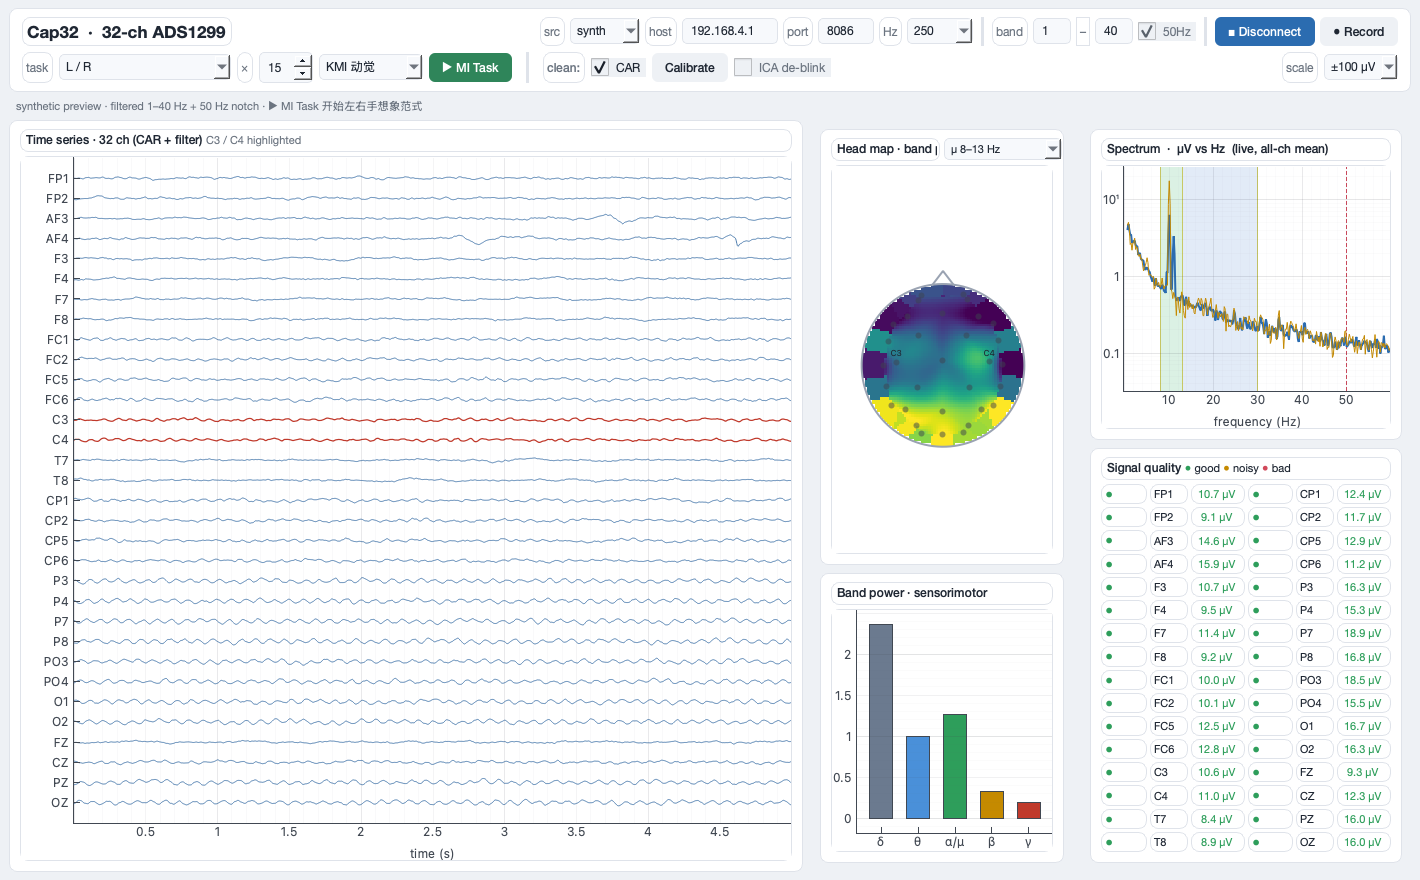
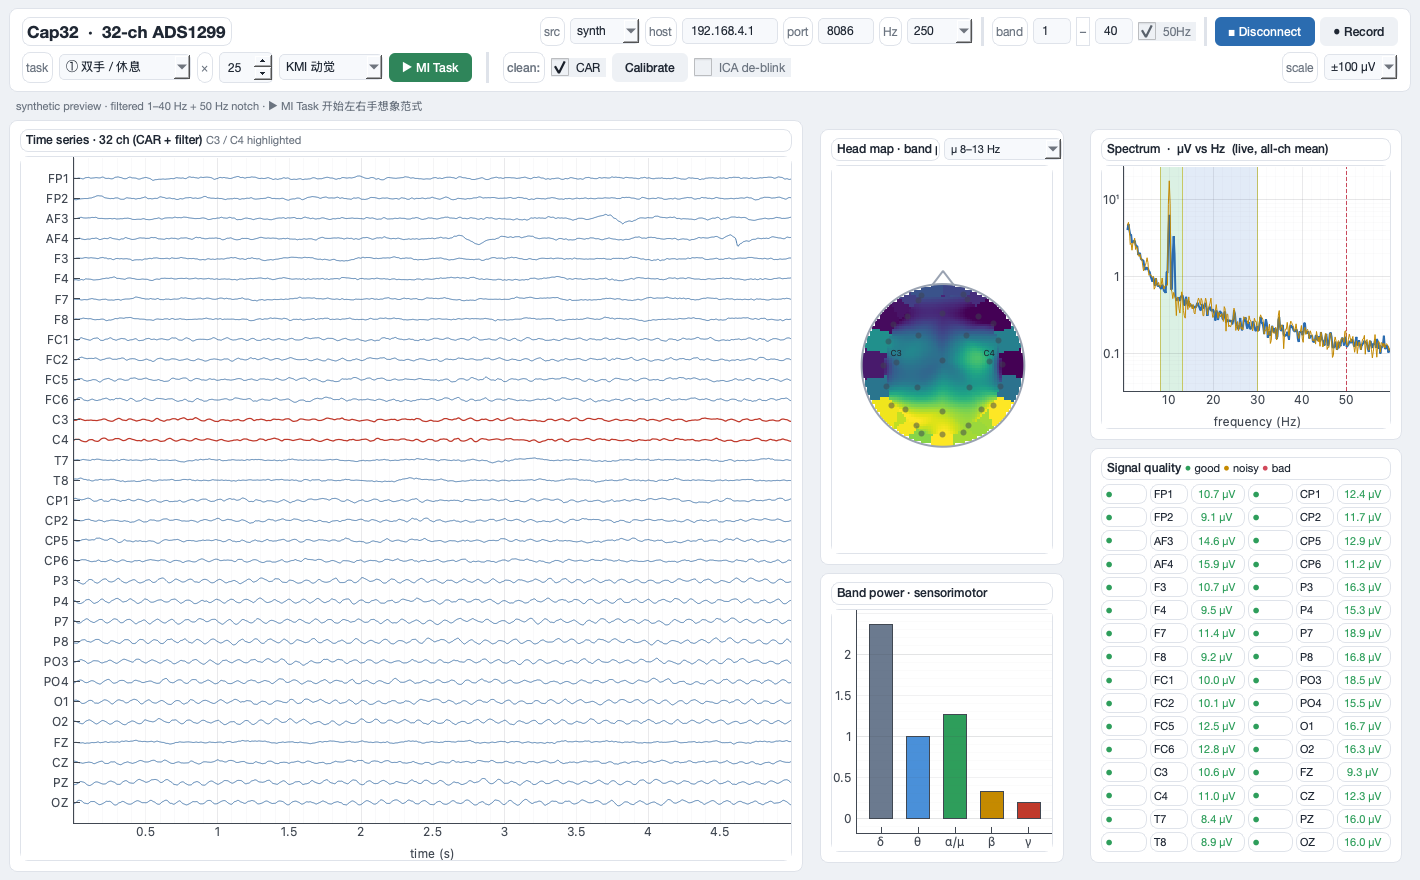
Task-set picker in the GUI; recordings can never overwrite each other
- The task dropdown is now driven by the evidence-ordered TASK_SETS with hover text
  explaining why each contrast was chosen; it defaults to ① 双手/休息, the check for
  whether motor imagery produces any signal at all on this cap.
- Filenames carry the task set (cap32_<ts>_hands-rest.npz) so recordings are
  self-describing, and _unique_base() appends _2, _3, … when any output path already
  exists. The timestamp only has 1 s resolution, so re-running the same set could
  previously collide and silently destroy the earlier recording.
- Default reps per class 15 → 25: the first session's 15/class left confidence intervals
  far too wide to conclude anything.

Changed region(s): [[0.1239, 0.0614, 0.5887, 0.092], [0.031, 0.0614, 0.093, 0.092]]

diff --git a/cap32_acquisition/cap_gui.py b/cap32_acquisition/cap_gui.py
@@ -265,6 +265,20 @@ def _card(QtWidgets):
 
 
 FORMAT_VERSION = 2
+SAVE_EXTS = (".npz", ".json", "_raw.fif")
+
+
+def _unique_base(outdir, stem):
+    """Never overwrite an existing recording. The timestamp has 1 s resolution, so two runs
+    of the SAME task set inside one second (or a re-save) would otherwise collide and
+    silently destroy the earlier data. Append _2, _3, … until every output path is free."""
+    base = os.path.join(outdir, stem)
+    if not any(os.path.exists(base + e) for e in SAVE_EXTS):
+        return base
+    k = 2
+    while any(os.path.exists(f"{base}_{k}{e}") for e in SAVE_EXTS):
+        k += 1
+    return f"{base}_{k}"
 
 
 def save_recording(data, trig, marker, fs, ch_names, outdir="recordings",
@@ -287,7 +301,7 @@ def save_recording(data, trig, marker, fs, ch_names, outdir="recordings",
     Also writes an MNE `.fif` with imagery onsets as task-labelled annotations."""
     os.makedirs(outdir, exist_ok=True)
     stamp = time.strftime("%Y%m%d_%H%M%S")
-    base = os.path.join(outdir, f"cap32_{stamp}" + (f"_{tag}" if tag else ""))
+    base = _unique_base(outdir, f"cap32_{stamp}" + (f"_{tag}" if tag else ""))
 
     fields = dict(data=data.astype(np.float32), trigger=trig.astype(np.int32),
                   marker=marker.astype(np.int32), fs=float(fs),
@@ -386,10 +400,16 @@ def build(fs, source_kind, host, port, note=""):
     btn_rec = chip("● Record", "#eef1f5", TXT)
 
     # MI paradigm controls — task sets incl. cognitive tasks (减7 / 想词 / 放歌 / 走房间)
-    from mi_paradigm import TASK_SETS
-    task_cb = field(QtWidgets.QComboBox(), 172)
+    from mi_paradigm import TASK_SETS, TASK_SET_WHY
+    task_cb = field(QtWidgets.QComboBox(), 132)
     task_cb.addItems(list(TASK_SETS))
-    reps_sp = field(QtWidgets.QSpinBox(), 54); reps_sp.setRange(2, 60); reps_sp.setValue(15)
+    for i, k in enumerate(TASK_SETS):                       # hover explains WHY each set
+        task_cb.setItemData(i, f"{k}\n{TASK_SET_WHY.get(k,'')}\n任务: {TASK_SETS[k]}",
+                            QtCore.Qt.ItemDataRole.ToolTipRole)
+    task_cb.currentTextChanged.connect(
+        lambda k: task_cb.setToolTip(TASK_SET_WHY.get(k, "")))
+    task_cb.setToolTip(TASK_SET_WHY.get(task_cb.currentText(), ""))
+    reps_sp = field(QtWidgets.QSpinBox(), 54); reps_sp.setRange(2, 60); reps_sp.setValue(25)   # 15/class gave CIs too wide to conclude
     btn_task = chip("▶ MI Task", "#2f855a")
 
     def vsep():
@@ -743,7 +763,8 @@ def run_live(fs, source_kind, host, port):
                           loss_pct=round(100 * r.lost / max(1, r.n + r.lost), 3),
                           samples_filled=int(r.filled)))
             base = save_recording(data, trig, marker, ctx["fs"], CAP32_CHANNELS,
-                                  trials=trials, meta=meta, tag="mi", gap=gap)
+                                  trials=trials, meta=meta, gap=gap,
+                                  tag="-".join(tasks))
             ctx["stat"].setText(
                 f"✅ 完成 · {len(trials)} trials · 丢包 {meta['link']['loss_pct']}% · "
                 f"saved {base}.npz  →  python src/analysis/erd_ers.py {base}.npz")

diff --git a/src/acquisition/cap_gui.py b/src/acquisition/cap_gui.py
@@ -264,6 +264,20 @@ def _card(QtWidgets):
 
 
 FORMAT_VERSION = 2
+SAVE_EXTS = (".npz", ".json", "_raw.fif")
+
+
+def _unique_base(outdir, stem):
+    """Never overwrite an existing recording. The timestamp has 1 s resolution, so two runs
+    of the SAME task set inside one second (or a re-save) would otherwise collide and
+    silently destroy the earlier data. Append _2, _3, … until every output path is free."""
+    base = os.path.join(outdir, stem)
+    if not any(os.path.exists(base + e) for e in SAVE_EXTS):
+        return base
+    k = 2
+    while any(os.path.exists(f"{base}_{k}{e}") for e in SAVE_EXTS):
+        k += 1
+    return f"{base}_{k}"
 
 
 def save_recording(data, trig, marker, fs, ch_names, outdir="recordings",
@@ -286,7 +300,7 @@ def save_recording(data, trig, marker, fs, ch_names, outdir="recordings",
     Also writes an MNE `.fif` with imagery onsets as task-labelled annotations."""
     os.makedirs(outdir, exist_ok=True)
     stamp = time.strftime("%Y%m%d_%H%M%S")
-    base = os.path.join(outdir, f"cap32_{stamp}" + (f"_{tag}" if tag else ""))
+    base = _unique_base(outdir, f"cap32_{stamp}" + (f"_{tag}" if tag else ""))
 
     fields = dict(data=data.astype(np.float32), trigger=trig.astype(np.int32),
                   marker=marker.astype(np.int32), fs=float(fs),
@@ -385,10 +399,16 @@ def build(fs, source_kind, host, port, note=""):
     btn_rec = chip("● Record", "#eef1f5", TXT)
 
     # MI paradigm controls — task sets incl. cognitive tasks (减7 / 想词 / 放歌 / 走房间)
-    from mi_paradigm import TASK_SETS
-    task_cb = field(QtWidgets.QComboBox(), 172)
+    from mi_paradigm import TASK_SETS, TASK_SET_WHY
+    task_cb = field(QtWidgets.QComboBox(), 132)
     task_cb.addItems(list(TASK_SETS))
-    reps_sp = field(QtWidgets.QSpinBox(), 54); reps_sp.setRange(2, 60); reps_sp.setValue(15)
+    for i, k in enumerate(TASK_SETS):                       # hover explains WHY each set
+        task_cb.setItemData(i, f"{k}\n{TASK_SET_WHY.get(k,'')}\n任务: {TASK_SETS[k]}",
+                            QtCore.Qt.ItemDataRole.ToolTipRole)
+    task_cb.currentTextChanged.connect(
+        lambda k: task_cb.setToolTip(TASK_SET_WHY.get(k, "")))
+    task_cb.setToolTip(TASK_SET_WHY.get(task_cb.currentText(), ""))
+    reps_sp = field(QtWidgets.QSpinBox(), 54); reps_sp.setRange(2, 60); reps_sp.setValue(25)   # 15/class gave CIs too wide to conclude
     btn_task = chip("▶ MI Task", "#2f855a")
 
     def vsep():
@@ -742,7 +762,8 @@ def run_live(fs, source_kind, host, port):
                           loss_pct=round(100 * r.lost / max(1, r.n + r.lost), 3),
                           samples_filled=int(r.filled)))
             base = save_recording(data, trig, marker, ctx["fs"], CAP32_CHANNELS,
-                                  trials=trials, meta=meta, tag="mi", gap=gap)
+                                  trials=trials, meta=meta, gap=gap,
+                                  tag="-".join(tasks))
             ctx["stat"].setText(
                 f"✅ 完成 · {len(trials)} trials · 丢包 {meta['link']['loss_pct']}% · "
                 f"saved {base}.npz  →  python src/analysis/erd_ers.py {base}.npz")

diff --git a/cap32_acquisition/mi_paradigm.py b/cap32_acquisition/mi_paradigm.py
@@ -133,19 +133,30 @@ MI_TASKS = {
 # ready-made task sets. Mixed motor+cognitive sets are usually the EASIEST to decode on a
 # dry cap — different networks beat fine left-vs-right spatial resolution.
 TASK_SETS = {
-    # Ordered EASIEST → HARDEST for this dry cap, based on the first real 30-trial session:
-    # left-vs-right gave AUC ~0.60 with permutation p=0.41 (i.e. chance), because separating
-    # C3 from C4 needs fine lateral resolution a dry cap does not deliver. Prefer contrasts
+    # Ordered EASIEST → HARDEST for this dry cap, from the first real 30-trial session:
+    # left-vs-right gave AUC ~0.60 with permutation p=0.41 (chance), because separating C3
+    # from C4 needs fine lateral resolution a dry cap does not deliver. Prefer contrasts
     # that differ in WHICH NETWORK is engaged, not in which hemisphere.
-    "① 双手 / 休息  (先验证有没有信号)": ["hands", "rest"],
-    "② 双手 / 减7   (运动 vs 认知,最易分)": ["hands", "math"],
-    "③ 双手 / 双脚  (手外侧 vs 脚内侧 Cz)": ["hands", "feet"],
-    "④ 减7 / 放歌   (额区 vs 颞区)": ["math", "song"],
-    "⑤ 双手 / 双脚 / 减7  (3 类)": ["hands", "feet", "math"],
-    "⑥ 认知 4 类 (减7/想词/放歌/走房间)": ["math", "words", "song", "navigate"],
-    "⑦ 筛选 8 类 (个性化选任务)": ["rest", "hands", "feet", "left",
-                                    "math", "words", "song", "navigate"],
-    "⑧ 左手 / 右手  (最难,实测≈随机)": ["left", "right"],
+    "① 双手 / 休息":   ["hands", "rest"],
+    "② 双手 / 减7":    ["hands", "math"],
+    "③ 双手 / 双脚":   ["hands", "feet"],
+    "④ 减7 / 放歌":    ["math", "song"],
+    "⑤ 手 / 脚 / 减7": ["hands", "feet", "math"],
+    "⑥ 认知 4 类":     ["math", "words", "song", "navigate"],
+    "⑦ 筛选 8 类":     ["rest", "hands", "feet", "left", "math", "words", "song", "navigate"],
+    "⑧ 左手 / 右手":   ["left", "right"],
+}
+
+# why each set, shown as a tooltip in the GUI dropdown
+TASK_SET_WHY = {
+    "① 双手 / 休息":   "先验证到底有没有 MI 信号 —— 最基本的检验,建议第一个跑",
+    "② 双手 / 减7":    "运动 vs 认知,调动完全不同的网络,干电极上预期最好分",
+    "③ 双手 / 双脚":   "手在外侧 C3/C4、脚在内侧 Cz,空间差异大,不需要左右侧化",
+    "④ 减7 / 放歌":    "额区(心算) vs 颞区(听觉想象)",
+    "⑤ 手 / 脚 / 减7": "三类:运动外侧 / 运动内侧 / 认知",
+    "⑥ 认知 4 类":     "减7 / 想词 / 放歌 / 走房间 —— 全认知任务",
+    "⑦ 筛选 8 类":     "跑一轮筛选,用数据帮你选出最可分的组合",
+    "⑧ 左手 / 右手":   "⚠ 最难:需要精细的 C3/C4 侧化,本机实测 ≈ 随机 (p=0.41)",
 }
 
 # background tint per phase — makes the current state unmistakable, even peripherally

diff --git a/src/experiment/mi_paradigm.py b/src/experiment/mi_paradigm.py
@@ -132,19 +132,30 @@ MI_TASKS = {
 # ready-made task sets. Mixed motor+cognitive sets are usually the EASIEST to decode on a
 # dry cap — different networks beat fine left-vs-right spatial resolution.
 TASK_SETS = {
-    # Ordered EASIEST → HARDEST for this dry cap, based on the first real 30-trial session:
-    # left-vs-right gave AUC ~0.60 with permutation p=0.41 (i.e. chance), because separating
-    # C3 from C4 needs fine lateral resolution a dry cap does not deliver. Prefer contrasts
+    # Ordered EASIEST → HARDEST for this dry cap, from the first real 30-trial session:
+    # left-vs-right gave AUC ~0.60 with permutation p=0.41 (chance), because separating C3
+    # from C4 needs fine lateral resolution a dry cap does not deliver. Prefer contrasts
     # that differ in WHICH NETWORK is engaged, not in which hemisphere.
-    "① 双手 / 休息  (先验证有没有信号)": ["hands", "rest"],
-    "② 双手 / 减7   (运动 vs 认知,最易分)": ["hands", "math"],
-    "③ 双手 / 双脚  (手外侧 vs 脚内侧 Cz)": ["hands", "feet"],
-    "④ 减7 / 放歌   (额区 vs 颞区)": ["math", "song"],
-    "⑤ 双手 / 双脚 / 减7  (3 类)": ["hands", "feet", "math"],
-    "⑥ 认知 4 类 (减7/想词/放歌/走房间)": ["math", "words", "song", "navigate"],
-    "⑦ 筛选 8 类 (个性化选任务)": ["rest", "hands", "feet", "left",
-                                    "math", "words", "song", "navigate"],
-    "⑧ 左手 / 右手  (最难,实测≈随机)": ["left", "right"],
+    "① 双手 / 休息":   ["hands", "rest"],
+    "② 双手 / 减7":    ["hands", "math"],
+    "③ 双手 / 双脚":   ["hands", "feet"],
+    "④ 减7 / 放歌":    ["math", "song"],
+    "⑤ 手 / 脚 / 减7": ["hands", "feet", "math"],
+    "⑥ 认知 4 类":     ["math", "words", "song", "navigate"],
+    "⑦ 筛选 8 类":     ["rest", "hands", "feet", "left", "math", "words", "song", "navigate"],
+    "⑧ 左手 / 右手":   ["left", "right"],
+}
+
+# why each set, shown as a tooltip in the GUI dropdown
+TASK_SET_WHY = {
+    "① 双手 / 休息":   "先验证到底有没有 MI 信号 —— 最基本的检验,建议第一个跑",
+    "② 双手 / 减7":    "运动 vs 认知,调动完全不同的网络,干电极上预期最好分",
+    "③ 双手 / 双脚":   "手在外侧 C3/C4、脚在内侧 Cz,空间差异大,不需要左右侧化",
+    "④ 减7 / 放歌":    "额区(心算) vs 颞区(听觉想象)",
+    "⑤ 手 / 脚 / 减7": "三类:运动外侧 / 运动内侧 / 认知",
+    "⑥ 认知 4 类":     "减7 / 想词 / 放歌 / 走房间 —— 全认知任务",
+    "⑦ 筛选 8 类":     "跑一轮筛选,用数据帮你选出最可分的组合",
+    "⑧ 左手 / 右手":   "⚠ 最难:需要精细的 C3/C4 侧化,本机实测 ≈ 随机 (p=0.41)",
 }
 
 # background tint per phase — makes the current state unmistakable, even peripherally
